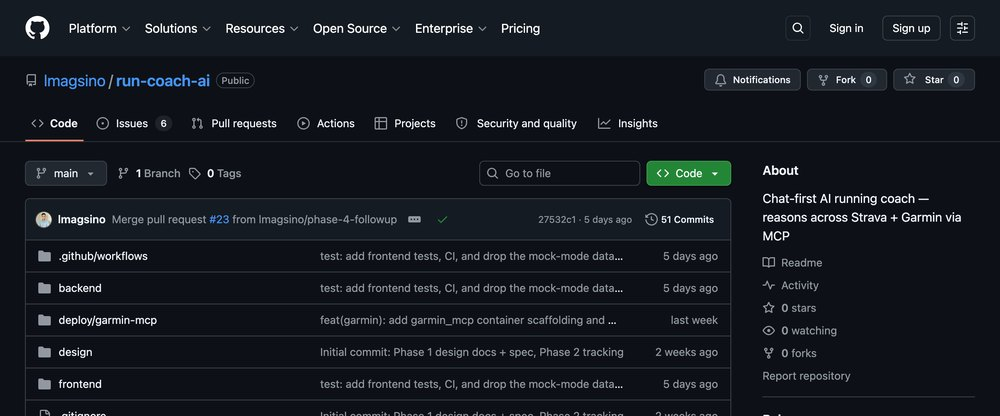
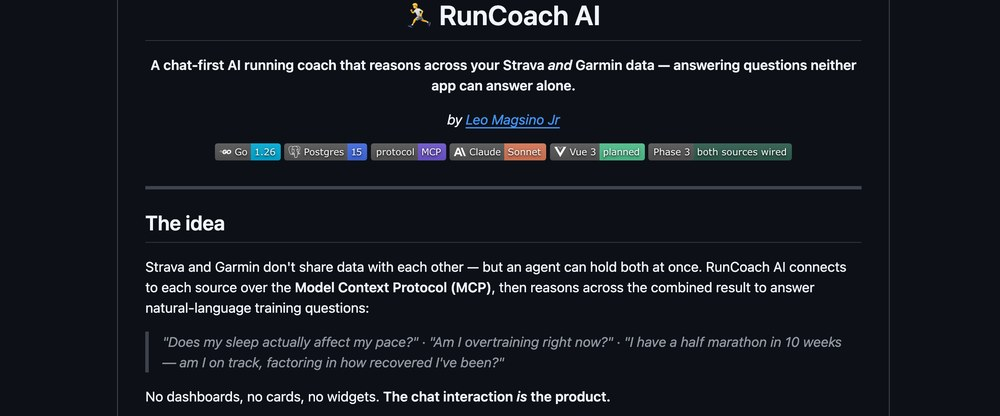
Side projects: drop "Built solo", show RunCoach's README
"Built solo" was mine, not sourced from anything, and it sat in the company
slot where the other cards carry a real employer. Neither side project has a
company, so the line is gone rather than filled with an assumption.

RunCoach AI's preview now shows the README header and The idea section —
title, the one-line pitch, the byline, the stack badges (Go 1.26, Postgres
15, MCP, Claude Sonnet, Vue 3 planned, Phase 3 both sources wired), and the
paragraph ending "The chat interaction is the product." That explains the
project in its own words, where the file listing only proved it existed.

Header plus idea is taller than 2.4:1 allows at the README's width, so the
crop is padded out horizontally with GitHub's own #0D1117 rather than
cutting either half.

Hashes restamped for the changed image.

diff --git a/index.html b/index.html
@@ -603,17 +603,15 @@
         <div class="site-foot">
           <div class="name">RaceCast</div>
           <div class="tag">Live</div>
-          <div class="site-co">Built solo</div>
           <p class="site-desc">Predicts your race finish time from a recent result &mdash; 5K to marathon, no sign-up.</p>
           <div class="visit">Visit site ↗</div>
         </div>
       </a>
       <a class="site-card side" href="https://github.com/lmagsino/run-coach-ai" target="_blank" rel="noopener">
-        <div class="site-preview"><img src="assets/previews/runcoach.jpg?v=bd18e149" alt="RunCoach AI repository" width="1000" height="416" loading="lazy" decoding="async"></div>
+        <div class="site-preview"><img src="assets/previews/runcoach.jpg?v=1b0d2a73" alt="RunCoach AI repository" width="1000" height="416" loading="lazy" decoding="async"></div>
         <div class="site-foot">
           <div class="name">RunCoach AI</div>
           <div class="tag">In progress</div>
-          <div class="site-co">Built solo</div>
           <p class="site-desc">A chat-first AI running coach that reasons across Strava and Garmin via MCP &mdash; no dashboards, just answers. Backend and MCP plumbing are built and tested; frontend and live account integration are next.</p>
           <div class="visit">View on GitHub ↗</div>
         </div>
